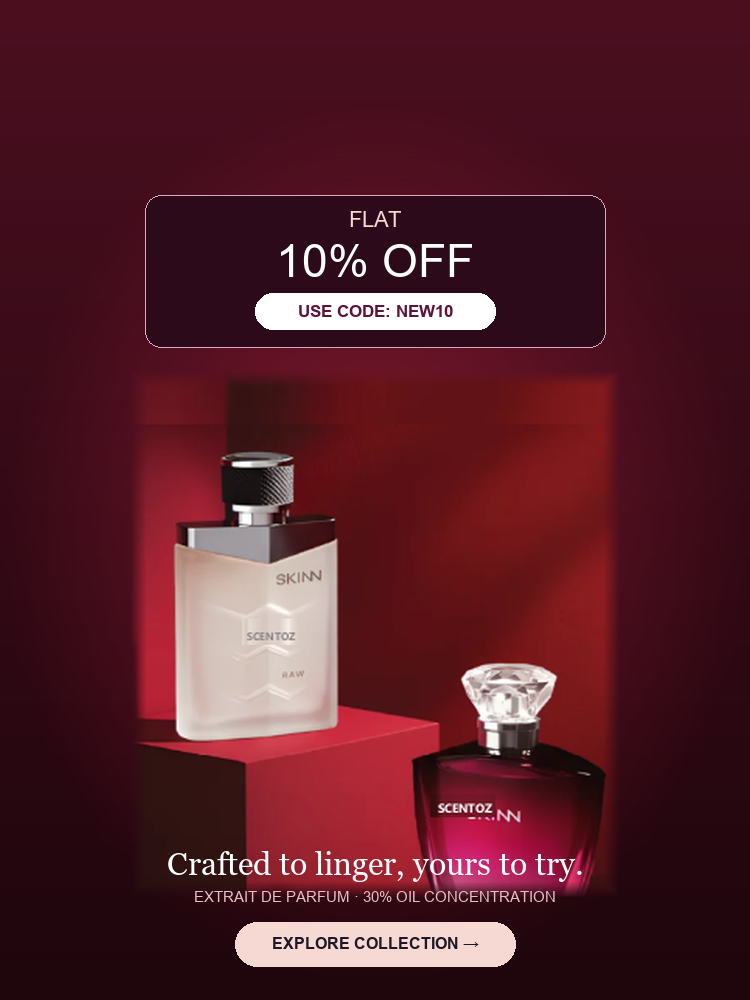
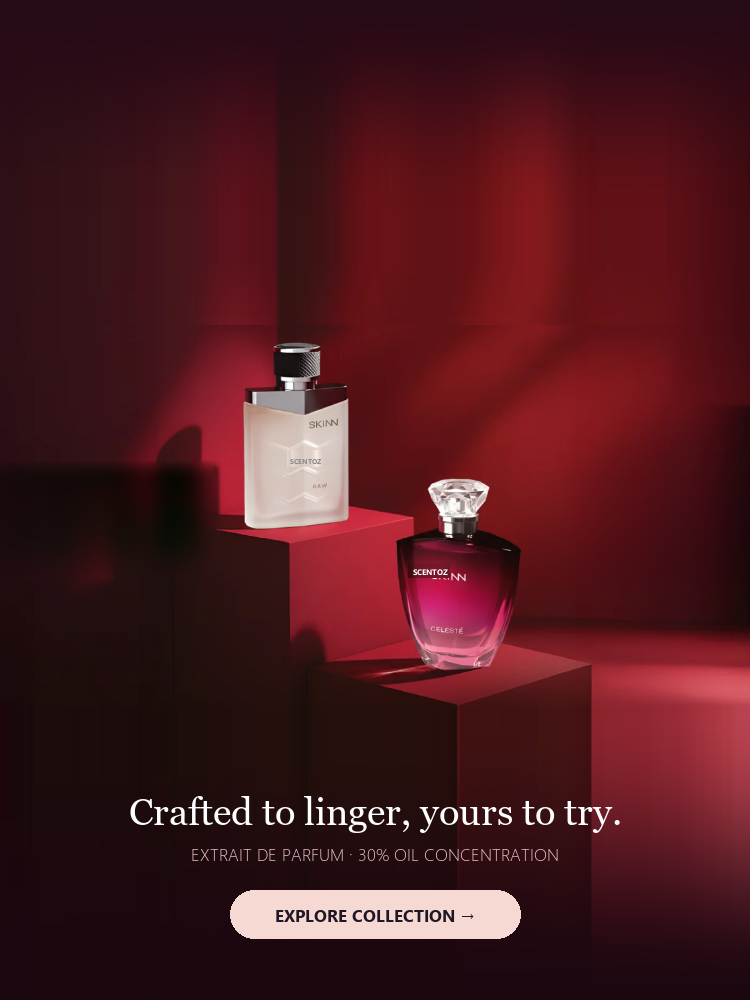
Remove flat 10% off promotion from home page in both phone view and laptop view

diff --git a/index.html b/index.html
@@ -77,7 +77,7 @@
           <li class="nav-menu-item"><a href="#giftingSection" onclick="scrollToGifting()">GIFT SETS</a></li>
           <li class="nav-menu-item"><a href="javascript:void(0)" onclick="filterByFamily('amber')">DISCOVERY SETS</a></li>
           <li class="nav-menu-item"><a href="#botanicalSection">ARTISANAL ATELIER</a></li>
-          <li class="nav-menu-item"><a href="javascript:void(0)" onclick="showToast('Special Privilege: Flat 10% off with code NEW10 at checkout')">OFFERS</a></li>
+          <li class="nav-menu-item"><a href="javascript:void(0)" onclick="showToast('Special Privilege: Complimentary luxury miniatures with every signature order.')">OFFERS</a></li>
         </ul>
       </div>
     </nav>
@@ -93,7 +93,7 @@
           <!-- Desktop View: Landscape Banner (1024x381) -->
           <img 
             src="assets/images/hero-banner.png" 
-            alt="SCENTOZ - Crafted to linger, yours to try. Flat 10% Off with Code NEW10" 
+            alt="SCENTOZ - Crafted to linger, yours to try. Extrait de Parfum" 
             class="hero-banner-img"
           >
         </picture>
@@ -101,12 +101,6 @@
 
       <!-- Interactive Floating Action Controls (Desktop) -->
       <div class="hero-banner-controls">
-        <div class="hero-coupon-pill" onclick="copyHeroCoupon('NEW10')" title="Click to copy coupon code NEW10">
-          <i class="fas fa-tag"></i>
-          <span>Use Code: <strong>NEW10</strong></span>
-          <button type="button" class="btn-copy-code"><i class="far fa-copy"></i> Copy</button>
-        </div>
-
         <a href="#trendingSection" class="hero-explore-btn">
           <span>EXPLORE NOW</span>
           <i class="fas fa-arrow-right"></i>
@@ -450,7 +444,7 @@
         <div class="footer-newsletter-col">
           <h4 class="footer-col-title">SCENTOZ PRIVÉ</h4>
           <p style="font-size: 0.78rem; color: #9D92A9; margin-bottom: 12px; line-height: 1.6;">
-            Subscribe to receive private preview invitations to rare seasonal extractions and an instant 10% voucher.
+            Subscribe to receive private preview invitations to rare seasonal extractions and bespoke privileges.
           </p>
           <div style="display: flex; gap: 6px;">
             <input 
@@ -460,7 +454,7 @@
             >
             <button 
               type="button" 
-              onclick="showToast('Welcome to SCENTOZ Privé. Check your inbox for voucher code NEW10.')"
+              onclick="showToast('Welcome to SCENTOZ Privé. Check your inbox for your welcome privilege.')"
               style="padding: 10px 16px; background: #852256; color: #FFFFFF; font-weight: 700; font-size: 0.78rem; border-radius: 4px;"
             >
               JOIN
@@ -523,7 +517,7 @@
           type="text" 
           class="coupon-input" 
           id="couponCodeInput" 
-          placeholder="Privilege Code (NEW10)" 
+          placeholder="Privilege Code" 
           aria-label="Coupon Code"
         >
         <button class="btn-apply-coupon" onclick="applyCouponCode()">APPLY</button>

diff --git a/assets/js/app.js b/assets/js/app.js
@@ -816,7 +816,7 @@ function applyCouponCode() {
     APP_STATE.appliedCoupon = { code: code, pct: 10 };
     showToast(`Code ${code} applied! 10% discount added.`);
   } else {
-    showToast('Invalid coupon. Try code NEW10');
+    showToast('Invalid privilege code. Please check and try again.');
   }
   renderCartDrawer();
 }
@@ -1018,12 +1018,12 @@ function handleHeaderSearch(query) {
 function copyHeroCoupon(code) {
   if (navigator.clipboard) {
     navigator.clipboard.writeText(code).then(() => {
-      showToast(`Privilege Code "${code}" copied to clipboard! (10% OFF applied)`);
+      showToast(`Privilege Code "${code}" copied to clipboard!`);
     }).catch(() => {
-      showToast(`Privilege Code: ${code} (10% OFF at checkout)`);
+      showToast(`Privilege Code: ${code} applied at checkout`);
     });
   } else {
-    showToast(`Privilege Code: ${code} (10% OFF at checkout)`);
+    showToast(`Privilege Code: ${code} applied at checkout`);
   }
   const input = document.getElementById('couponCodeInput');
   if (input) input.value = code;

diff --git a/assets/css/style.css b/assets/css/style.css
@@ -481,12 +481,7 @@ button {
 
 @media (max-width: 768px) {
   .hero-banner-controls {
-    position: static;
-    background: #2D081D;
-    padding: 14px 20px;
-    justify-content: center;
-    flex-wrap: wrap;
-    gap: 10px;
+    display: none;
   }
 }
 
